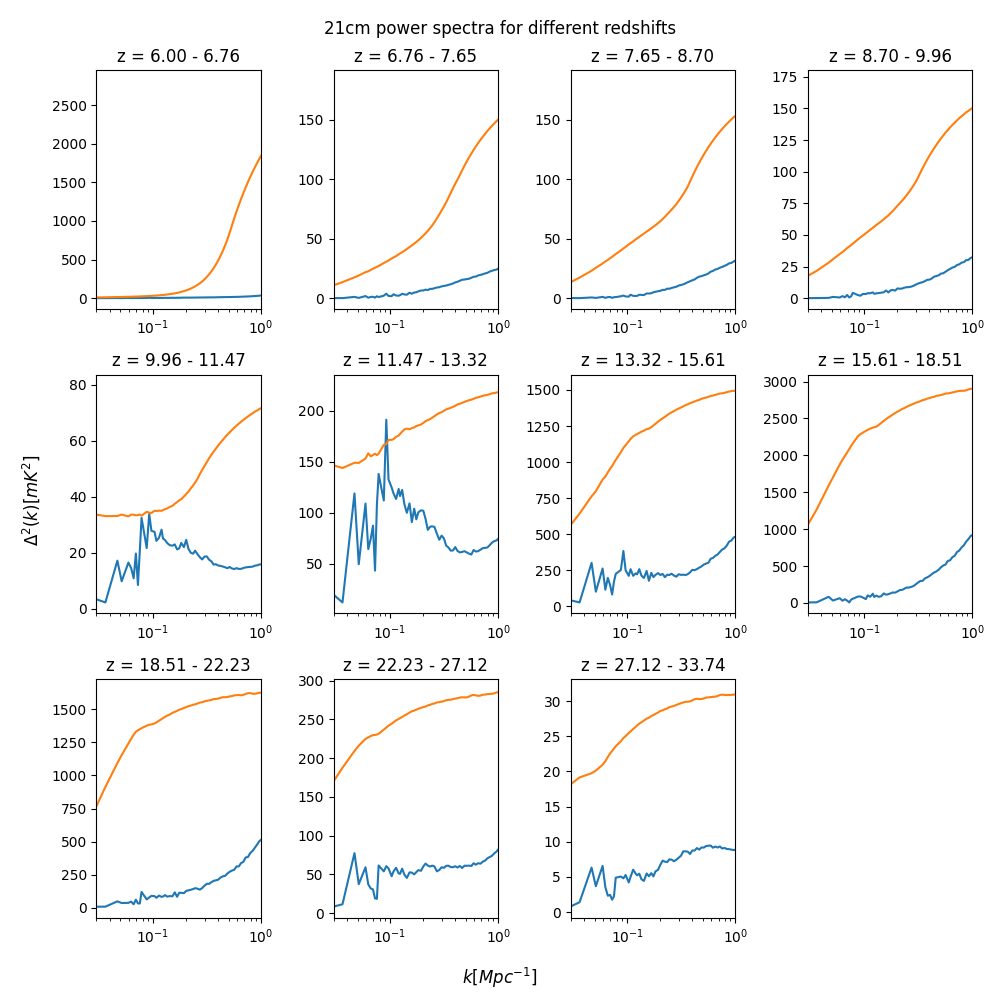
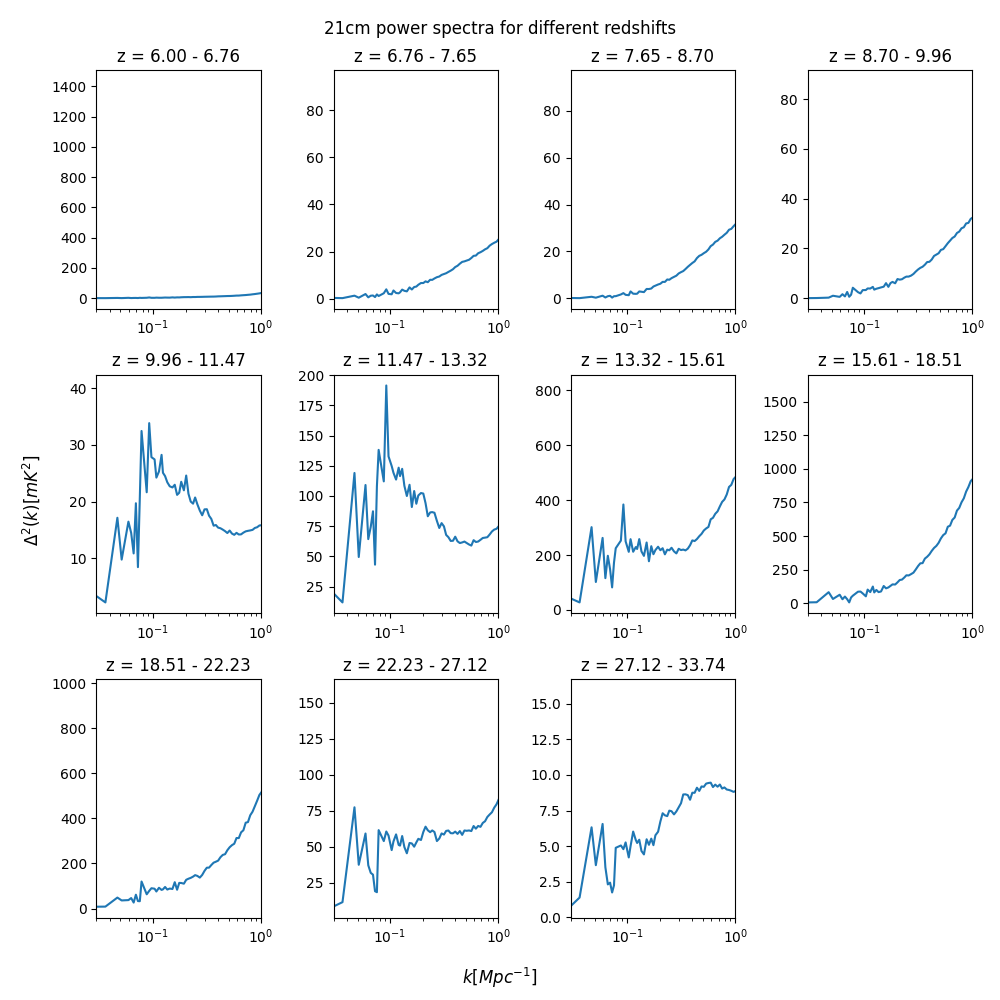
final commit, didnt work

diff --git a/public_21CMvFAST_MC/Programs/test.py b/public_21CMvFAST_MC/Programs/test.py
@@ -1,93 +1,6 @@
-# import re
+import subprocess
 
-# class Test:
-#     def __init__(self, walker_folder_location, IncludeLightCone, param_legend):
-#         self.walker_folder_location = walker_folder_location
-#         self.IncludeLightCone = IncludeLightCone
-#         self.param_legend = param_legend
-#         self.Fiducial_Params = {}
-    
-#     def read_walker(self):
-#         # This is for dummy testing
-#         params = [0]*100
-
-#         walker_file = open(f"{self.walker_folder_location}Walker_1.000000_1.000000.txt","r")
-#         Lines = walker_file.readlines()
-#         self.parameter_number = 0
-
-#         # FLAGS
-#         match = re.match("^FLAGS\s+(\d)\s+(\d)\s+(\d)\s+(\d)\s+(\d)\s+(\d)\s+(\d)$", Lines[0].strip())
-#         if match:
-#             groups = match.groups()
-#             GenerateNewICs = groups[0]
-#             Subcell_RSDs = groups[1]
-#             IONISATION_FCOLL_TABLE = groups[2]
-#             UseFcollTable = groups[3]
-#             PerformTsCalc = groups[4]
-#             INHOMO_RECO = groups[5]
-#             OutputGlobalAve = groups[6]
-#         else:
-#             raise Exception(f"Walker file: {walker_file} does not match expected pattern for FLAGS")
-
-#         def read_float(string, saveKey, alwaysUseFiducial=False, useOtherParamKey=False, otherParamKey=None):
-#             match = re.match(f"^{saveKey}\s+([0-9.]+)$", string.strip())
-#             if match:
-#                 groups = match.groups()
-#                 if not alwaysUseFiducial:      
-#                     if useOtherParamKey:
-#                         paramKey = otherParamKey
-#                     else:
-#                         paramKey = saveKey     
-#                     if self.param_legend[paramKey]:            
-#                         params[self.parameter_number] = groups[0]
-#                         self.parameter_number += 1
-#                     else:
-#                         self.Fiducial_Params[saveKey] = groups[0]   # Double because nested if cant be evaluated for some settings
-#                 else:
-#                     self.Fiducial_Params[saveKey] = groups[0]
-#             else:
-#                 raise Exception(f"Walker file: {walker_file} does not match expected pattern for {saveKey}")   
-
-#         read_float(Lines[1], "ALPHA")
-#         read_float(Lines[2], "ZETA")
-#         read_float(Lines[3], "MFP")
-#         read_float(Lines[4], "TVIR_MIN")
-#         X_RAY_TVIR_MIN = params[self.parameter_number]
-#         read_float(Lines[5], "L_X")
-#         read_float(Lines[6], "NU_X_THRESH")
-#         read_float(Lines[7], "NU_X_BAND_MAX", alwaysUseFiducial=True)
-#         read_float(Lines[8], "NU_X_MAX", alwaysUseFiducial=True)
-#         read_float(Lines[9], "X_RAY_SPEC_INDEX")
-#         read_float(Lines[10], "X_RAY_TVIR_MIN", useOtherParamKey=True, otherParamKey="TVIR_MIN")
-#         read_float(Lines[11], "X_RAY_TVIR_LB", alwaysUseFiducial=True)
-
-#         read_float(Lines[12], "X_RAY_TVIR_UB", alwaysUseFiducial=True)
-#         read_float(Lines[13], "F_STAR", alwaysUseFiducial=True)
-#         read_float(Lines[14], "t_STAR", alwaysUseFiducial=True)
-#         read_float(Lines[15], "N_RSD_STEPS", alwaysUseFiducial=True)
-#         read_float(Lines[16], "LOS_direction", alwaysUseFiducial=True)
-
-#         # Ts: I haven't added the CO_EVAL_Z here as I don't need it at the moment
-
-#         parameter_number = self.parameter_number
-
-# # walker_folder_location = "/scratch/s4950836/Walker/"
-# walker_folder_location = "./"
-# param_legend = {    # It doesnt matter what the values are here, just that they all exist
-#     "ALPHA": True,
-#     "ZETA": True,
-#     "MFP": False,
-#     "TVIR_MIN": False,
-#     "L_X": True,
-#     "NU_X_THRESH": False,
-#     "X_RAY_SPEC_INDEX": True,
-#     "TVIR_MIN": True,
-# }
-# test = Test(walker_folder_location, True, param_legend)
-# test.read_walker()
-
-import random
-
-a = random.random()*1e10
-b = f"{a:.0f}"
-print(b)
+command = "ls ./CosmoHammer_21CMMC/help"
+process = subprocess.Popen(command, shell=True, stdout=subprocess.PIPE)
+process.wait()
+print(process.returncode)

diff --git a/public_21CMvFAST_MC/Programs/21CMMC.py b/public_21CMvFAST_MC/Programs/21CMMC.py
@@ -21,7 +21,7 @@ from CosmoHammer_21CMMC.likelihood.module.Likelihood21cmFast import QSO_Redshift
 if __name__ == '__main__':
 	# Added the option to store the data in another folder than the relative path
 	# If the output is not moved, keep this as "./"
-	output_folder_location = "/scratch/s4950836/output_2/"
+	output_folder_location = "/scratch/s4950836/output_3/"
 	walker_folder_location = "/scratch/s4950836/Walker/"
 	print("\n----------------------------\nStarting 21CMMC.py\n----------------------------\n")
 
@@ -144,7 +144,7 @@ if __name__ == '__main__':
 	# False will retain the original functionality. The id's specified below won't be used
 	# NOTE if IncludeLightCone is False, the CO_EVAL_Z will still not be read. So do not use this functionality if that is the case, it won't work
 	# NOTE make sure the settings correspond to the data, there are no checks in place
-	USE_EXISTING_DATA = True
+	USE_EXISTING_DATA = False
 	USE_EXISTING_DATA_id1 = 1.0
 	USE_EXISTING_DATA_id2 = 1.0
 

diff --git a/public_21CMvFAST_MC/Programs/CosmoHammer_21CMMC/likelihood/module/Likelihood21cmFast.py b/public_21CMvFAST_MC/Programs/CosmoHammer_21CMMC/likelihood/module/Likelihood21cmFast.py
@@ -427,8 +427,17 @@ class Likelihood21cmFast_multiz(object):
         counter = 0
 
         if not self.USE_EXISTING_DATA:
+            # TS: Make sure to wait for the script to finish before aborting. Note code can have an error, but that should be ignored
+            # Not sure if this is helping as the code still does not work for me
             command = "./drive_21cmMC_streamlined %s"%(StringArgument)
-            os.system(command)
+            try:
+                # process = subprocess.Popen(command, shell=True, stdout=subprocess.PIPE)
+                # process.wait()
+                return_code = subprocess.call(command)
+            except:
+                print(f"Error in drive_21cmMC_streamlined with arguments {StringArgument}")
+            # print process.returncode
+            # os.system(command)
 
         total_sum = 0
         

diff --git a/public_21CMvFAST_MC/Programs/visualizeData.py b/public_21CMvFAST_MC/Programs/visualizeData.py
@@ -164,7 +164,7 @@ def plot_position(i, rows, cols):
 def subplot(frame, zs, ze, kList, PList, PobsList):
     frame.set_title(f"z = {float(zs):.2f} - {float(ze):.2f}")
     frame.plot(kList,PList, label="simulated data")
-    frame.plot(kList, PobsList, label="AP shifted spectrum")
+    # frame.plot(kList, PobsList, label="AP shifted spectrum")
     frame.set_xscale("log")
     frame.set_xlim(0.03, 1)
     return frame

diff --git a/public_21CMvFAST_MC/Parameter_files/COSMOLOGY.H b/public_21CMvFAST_MC/Parameter_files/COSMOLOGY.H
@@ -48,7 +48,7 @@
 
 
 
-#define OUTPUT_FOLDER "/scratch/s4950836/output_2"
+#define OUTPUT_FOLDER "/scratch/s4950836/output_3"
 //JBM:output folder name. If you want output in programs (as default) write "."
 
 // TS: Input folder name for boxes, incase files need to get moved.
